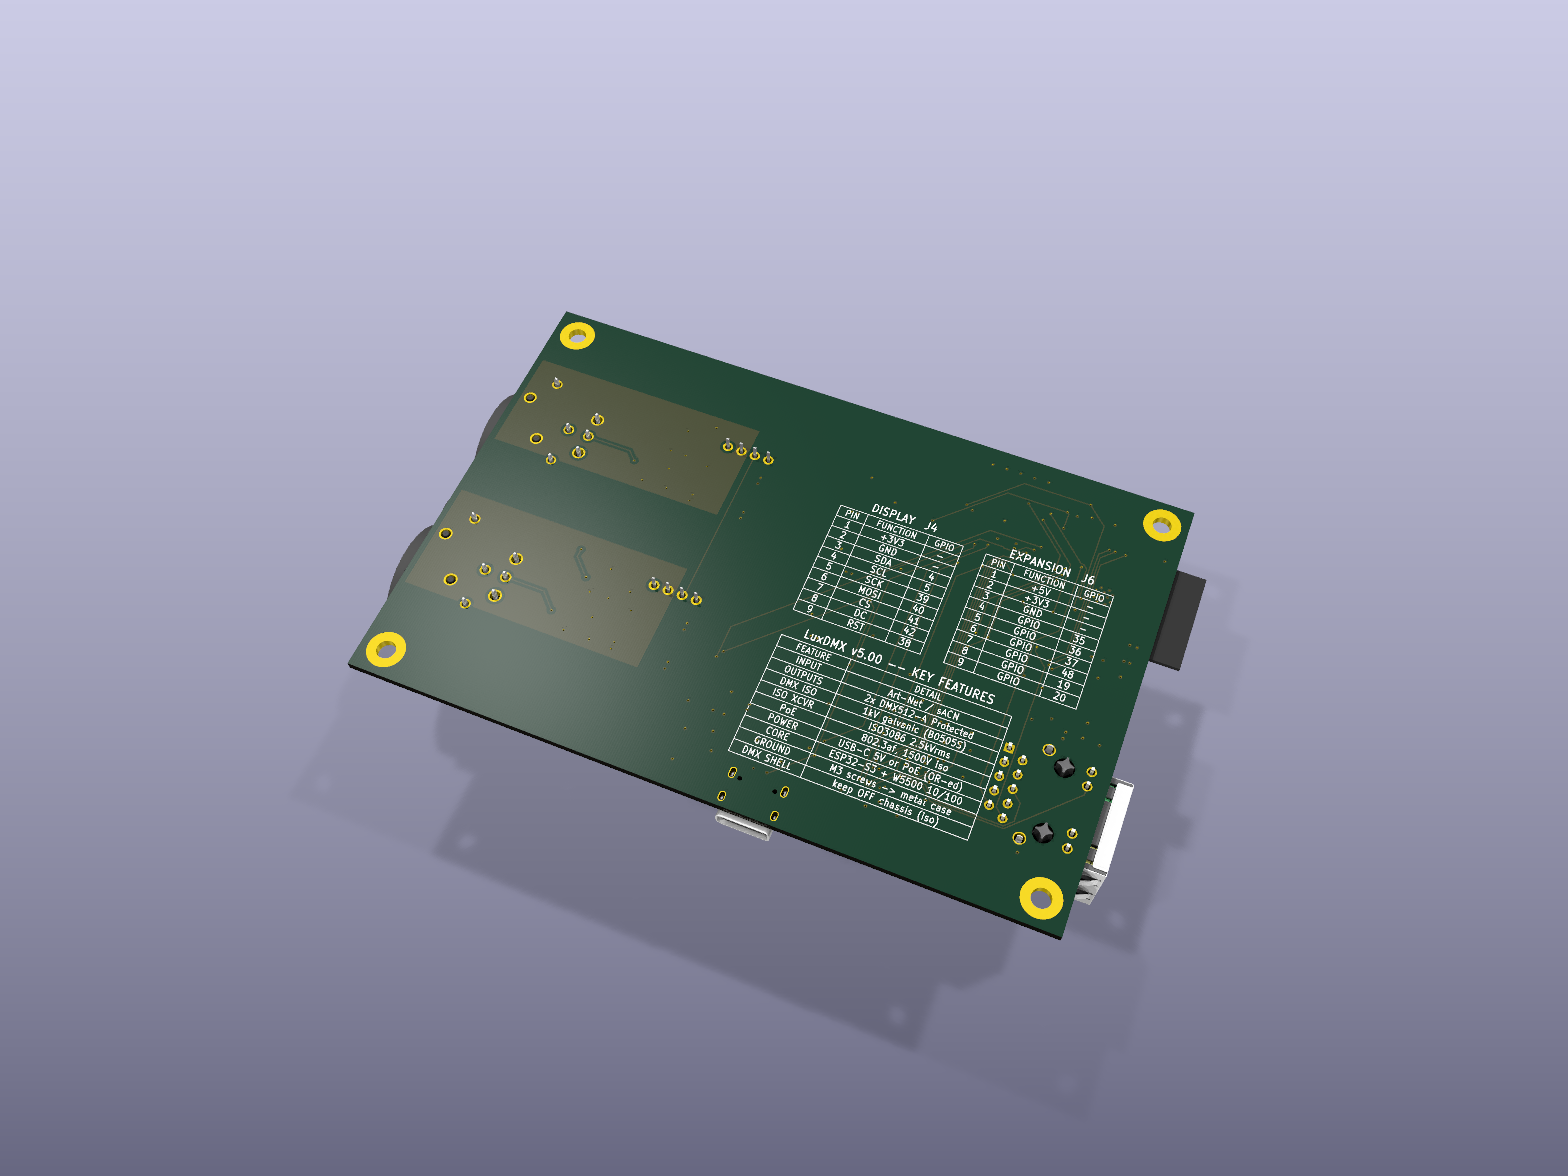
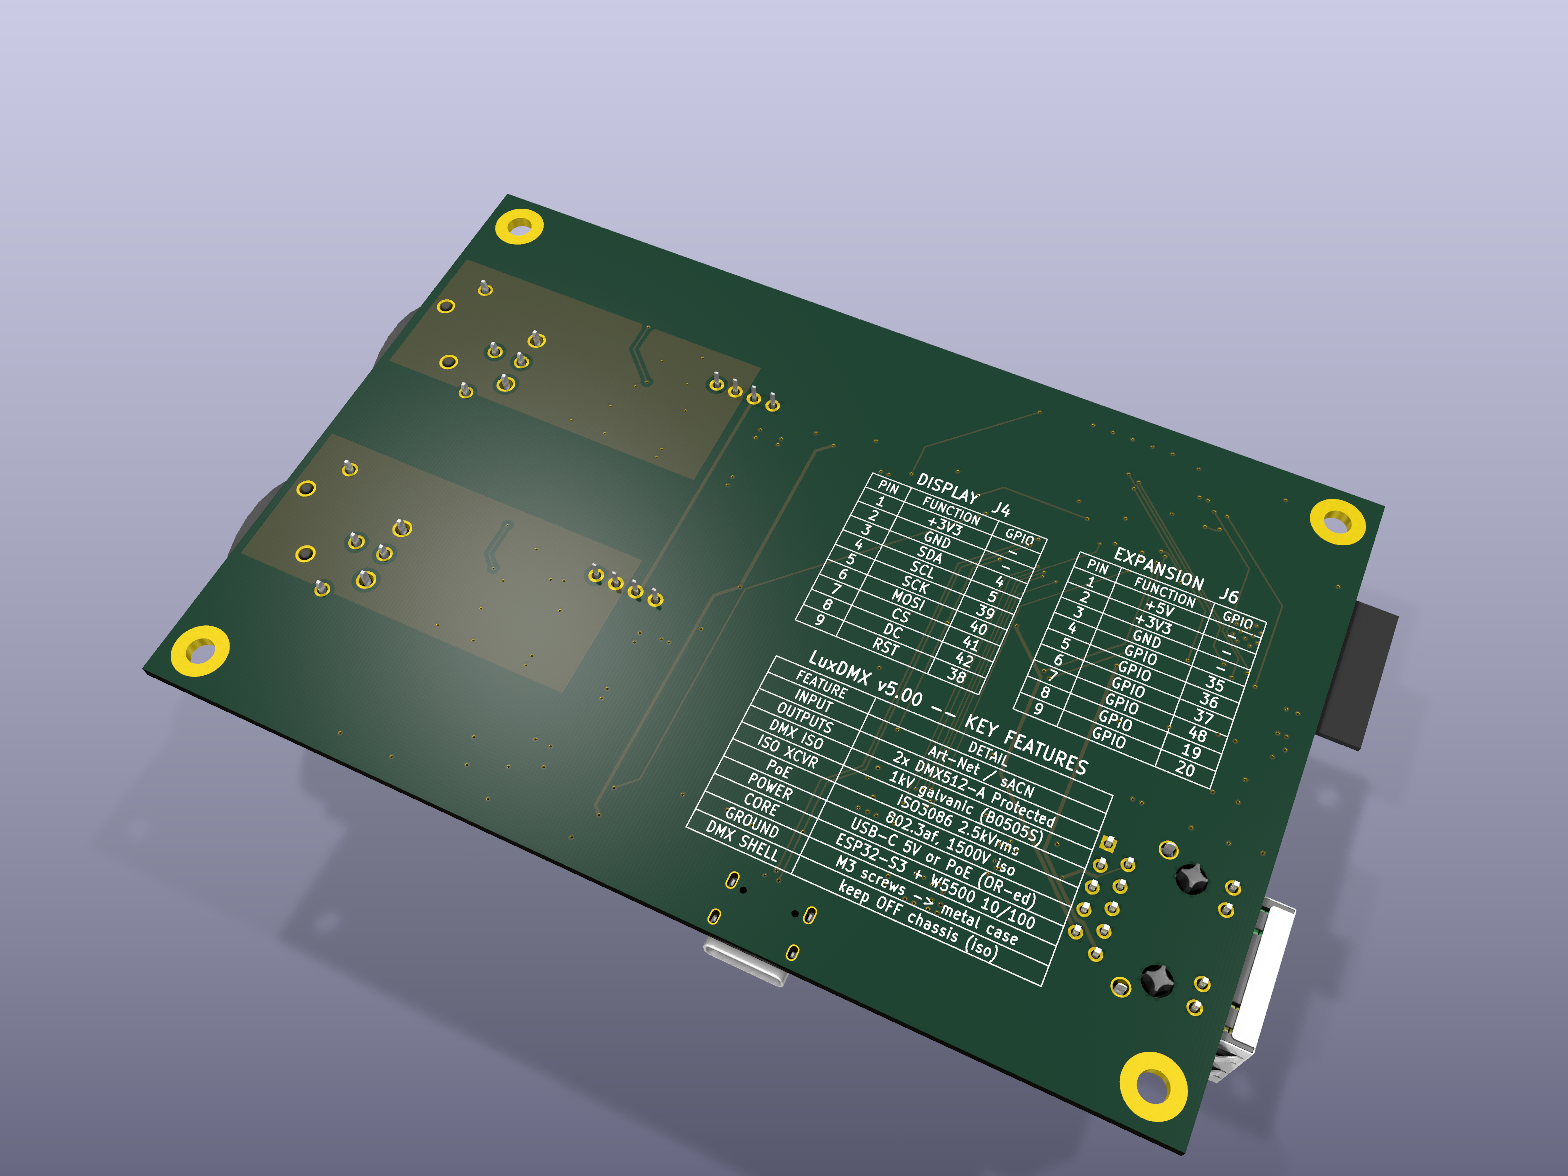
hw: refresh v5 board docs + 3D renders (#68)
The hardware README still carried the old "not fabricated, v4-hardware
branch" warning and a few part numbers that had moved. The board is on
master, it's v5, and the first spin is being fabricated, so:

- top warning -> note: first spin ordered, still treat it as a prototype
- re-rendered board3d-1/2.png from the actual v5 board (were showing v4)
- LCSC parts that changed in the sourcing sweep: J1/J5 XLR C368501,
  U3 CH340C C7464026
- stackup was wrong: the ethernet impedance is tuned to JLC04161H-7628,
  not 3313 (fixed both the stackup note and the JLCPCB order step)
- documented the DMX512-A "Protected" series-TBU front end (F2-F5) and the
  470R fail-safe bias, which weren't in the parts list
- J4/J6 display/expansion headers now have a part (C160408); dropped the
  stale "no LCSC assigned" note and the long-gone D8/D9
- crystal detail (C2981624, 2520, CL 9 pF, 10 pF loads)
- bumped v4 -> v5 in the luxdmx.py / validate_electrical.py headers and
  the pin-picker doc line

diff --git a/hardware/validate_electrical.py b/hardware/validate_electrical.py
@@ -1,4 +1,4 @@
-"""Electrical operating-point validation for LuxDMX v4.0 -- re-runnable.
+"""Electrical operating-point validation for LuxDMX v5.00 -- re-runnable.
 
 Computes the DC/RC operating points of every critical node from the schematic values and checks
 each against the relevant device limit. For these nodes (resistive dividers, diode-OR, LED current

diff --git a/hardware/luxdmx.py b/hardware/luxdmx.py
@@ -1,5 +1,5 @@
 #!/usr/bin/env python
-"""LuxDMX v4 — standalone ESP32-S3 Art-Net/sACN -> isolated DMX gateway (SKiDL).
+"""LuxDMX v5 — standalone ESP32-S3 Art-Net/sACN -> isolated DMX gateway (SKiDL).
 
 Self-contained board (no plug-in module):
   ESP32-S3-WROOM-1-N8  +  W5500 SPI-Ethernet + HR911105A MagJack

diff --git a/hardware/README.md b/hardware/README.md
@@ -1,11 +1,11 @@
-> [!WARNING]
-> **Not yet fabricated or tested.** This board (the `v4-hardware` branch) is design-complete and passes
-> the full scripted validation (DRC, isolation, SPICE, Ethernet skew; see **VALIDATION.md**), but no
-> physical board has been built or bench-tested yet. The proven, supported path is the firmware on a plain
-> ESP32 + an isolated RS-485 module (see the main README). A ruggedization pass (USB ESD, PTC fuse, +5V
-> TVS, a TPS2116 ideal-diode OR mux, DMX common-mode chokes, ferrite supply filters), plated GND mounting
-> holes, and wider power traces are in; a few datasheet/silk items remain open (see **Status**). Treat the
-> first build as a prototype and do a final review before ordering.
+> [!NOTE]
+> **First spin is being fabricated.** This v5 board is on `master`, design-complete, and passes the full
+> scripted validation (DRC, isolation, SPICE, Ethernet skew; see **VALIDATION.md**). The first physical
+> boards have been ordered but not yet bench-tested, so treat this spin as a prototype: the firmware on a
+> plain ESP32 + an isolated RS-485 module is still the longest-proven path (see the main README). The
+> ruggedization pass (USB ESD, PTC fuse, +5V TVS, a TPS2116 ideal-diode OR mux, DMX common-mode chokes,
+> ferrite supply filters), plated GND mounting holes, wider power traces, and the DMX512-A "Protected"
+> series-TBU front end are all in.
 
 # LuxDMX v5 — hardware
 
@@ -54,7 +54,7 @@ dollars to fabricate at JLCPCB.
 - **U1 — ESP32-S3-WROOM-1-N8** *(LCSC C2913198)* — the MCU + 2.4 GHz WiFi radio. Runs the Art-Net/sACN
   receiver, the web UI, OTA updates, and the DMX engine. The PCB antenna hangs over the left board edge
   (no copper underneath it — intentional, for radiation efficiency).
-- **U2 — WIZnet W5500** *(C32843)* + **Y1 — 25 MHz crystal** + **J3 — HY931147C PoE RJ45 MagJack** *(C91754)* —
+- **U2 — WIZnet W5500** *(C32843)* + **Y1 — 25 MHz crystal** *(C2981624, 2520, CL 9 pF; load caps C12/C13 = 10 pF C0G)* + **J3 — HY931147C PoE RJ45 MagJack** *(C91754)* —
   a complete 10/100 wired-Ethernet subsystem on SPI. The magjack integrates the isolation magnetics,
   the link/activity LEDs, **and an internal PoE rectifier** (Mode A + Mode B → a single rectified DC pair
   on pins 9/10 — see *Power*). (Ethernet is isolated by the magjack's transformers; the W5500's
@@ -71,7 +71,12 @@ Each universe is a self-contained galvanic island; the two share no copper with 
   ground with anything else.
 - **D1 / D7 — SM712 TVS** *(C404012)* + **R12 / R19 — 120 Ω termination** — per-universe surge protection
   clamped to that universe's isolated ground, and the standard RS-485 line termination.
-- **J1 / J5 — XLR-5** *(C309326)* — the two DMX output connectors (Neutrik NC5FAH), each living entirely on its isolated domain.
+- **F2–F5 — Bourns TBU-CA065-200-WH** *(C913221)* — a series **high-speed protector** on each DMX data line:
+  the DMX512-A **"Protected"** (E1.11 Annex C) front end. It blocks a sustained fault (someone plugging mains,
+  or up to ±42 V, into the XLR) in under a microsecond and self-recovers, so the SM712 only ever sees the
+  sub-microsecond transient. Full breakdown in [`E1.11_COMPLIANCE.md`](E1.11_COMPLIANCE.md).
+- **R20–R23 — 470 Ω fail-safe bias** — hold each idle DMX pair in the RS-485 fail-safe state (needed for RDM).
+- **J1 / J5 — XLR-5** *(C368501)* — the two DMX output connectors (Neutrik NC5FAH), each living entirely on its isolated domain.
 - Nets: universe 1 = `VISO`/`GNDISO`/`DMX_A`/`DMX_B`; universe 2 = `VISO2`/`GNDISO2`/`DMX2_A`/`DMX2_B`.
 
 ### Power — USB-C **or** PoE (diode-OR'd)
@@ -88,7 +93,7 @@ Each universe is a self-contained galvanic island; the two share no copper with 
   divider is **R10 = 45.3 kΩ / R11 = 10 kΩ → 3.318 V** (SPICE-verified). Powers everything on the logic side.
 
 ### Programming & USB
-- **U3 — CH340C** *(C84681)* + **J2 — USB-C** *(C165948)* — USB-to-UART for flashing, plus the power inlet.
+- **U3 — CH340C** *(C7464026)* + **J2 — USB-C** *(C165948)* — USB-to-UART for flashing, plus the power inlet.
 - **Q1/Q2 — MMBT3904** *(C20526)* — the classic **2-transistor auto-reset** circuit: the CH340's DTR/RTS
   toggle EN and IO0 so `esptool` can drop the chip into the bootloader automatically — no button-dance.
 
@@ -121,7 +126,7 @@ Each universe is a self-contained galvanic island; the two share no copper with 
 
 ## The 4-layer board & the isolation barrier
 
-**Stack-up:** 4-layer, JLCPCB's standard **JLC04161H-3313** (1.6 mm). The two inner layers are
+**Stack-up:** 4-layer, JLCPCB **JLC04161H-7628** (1.6 mm; L1–L2 prepreg 0.2104 mm, Er 4.05 — the dielectric the Ethernet pairs are impedance-tuned to). The two inner layers are
 **ground-filled signal layers** — not classic "power planes". That's deliberate: as signal layers the
 autorouter will happily route ground (and fine-pitch escapes) to the inner copper, while the fill still
 gives every trace a solid 0.21 mm-away reference. The result: clean ~100 Ω Ethernet pairs and good EMI.
@@ -166,7 +171,7 @@ get done once. Move a part, re-run — done.
 > **Adding the dual-universe + PoE parts to an existing board:** [`sync_board.py`](sync_board.py) is the
 > incremental path — it keeps every already-placed footprint where it is, refreshes pad nets (e.g. J2's VBUS
 > moving onto `+5V_USB`), swaps J3 to the PoE magjack, and drops the brand-new parts (U6/PS2/J5/D7, U7/D10,
-> D8/D9, the new caps) in a grid on the right of the enlarged outline for you to place. Then run the normal
+> the new caps) in a grid on the right of the enlarged outline for you to place. Then run the normal
 > 2→5 pipeline. `build_v3.py` remains the full from-scratch grid build if you'd rather re-place everything.
 
 ---
@@ -178,15 +183,16 @@ Everything you upload is already generated in this folder.
 ### 1 — Bare PCB
 1. Go to [jlcpcb.com](https://jlcpcb.com) → **Add gerber file** → upload **`luxdmx_gerbers.zip`**.
 2. It auto-detects **4 layers**. Set: **Layers = 4**, Thickness **1.6 mm**, Impedance control =
-   **JLC04161H-3313** stackup (the one this board is designed for). Surface finish your choice (ENIG
+   **JLC04161H-7628** stackup (the one the board's Ethernet impedance is designed for). Surface finish your choice (ENIG
    recommended for the fine-pitch parts).
 
 ### 2 — Assembly (SMT)
 3. Enable **PCB Assembly**, then upload:
    - **BOM** → `luxdmx_BOM_jlcpcb.csv`
    - **CPL / pick-and-place** → `luxdmx_CPL.csv`
-4. In the BOM matching step, confirm each LCSC part (they're pre-filled). **J4** (the optional display
-   header) has no LCSC assigned — either pick a JST SH 9-pin part there or mark it **Do Not Populate**.
+4. In the BOM matching step, confirm each LCSC part (they're all pre-filled, every line in JLC stock). The
+   optional display / expansion headers **J4 / J6** (JST SH 9-pin, C160408) are in the BOM — mark them **Do
+   Not Populate** if you don't want the on-board panel.
 5. **Review the placement preview** — the CPL is rotation/position-corrected by `gen_cpl.py`, so parts
    should sit correctly. The ESP32-S3's antenna intentionally overhangs the left edge.
 
@@ -221,8 +227,8 @@ fee. A complete, assembled prototype lands well under typical hobby budgets.
 
 ## Status
 
-> **Design-complete and fully validated, but NOT yet fabricated or tested on real hardware.** Treat the
-> first build as a prototype and do a final review before ordering.
+> **Design-complete, fully validated, and the first spin is being fabricated.** Not yet bench-tested on
+> real hardware, so treat this first spin as a prototype.
 
 The v5 board (two isolated DMX universes + PoE, **119 × 79 mm**, 4 corner plated M3 mounting holes) is
 **fully routed** (0 unrouted, 0 unconnected) and passes the scripted validation:

diff --git a/README.md b/README.md
@@ -683,7 +683,7 @@ no network means you still get the built-ins plus manual entry. You can switch b
 a dropdown inside the pin-picker popup itself.
 
 All descriptors are generated from authoritative pinout data
-(`hardware/gen_board_descriptor.py`): `hardware/luxdmx.py` for v3, published header
+(`hardware/gen_board_descriptor.py`): `hardware/luxdmx.py` for our own board, published header
 pinouts for the hand-tuned dev boards, and the Arduino core `variants/<dir>/pins_arduino.h`
 for the rest, so the GPIO numbers and reserved/strapping/flash flags are accurate per
 variant (e.g. the PICO-based Feather V2 frees GPIO6-11 and reserves 16/17 instead). The
